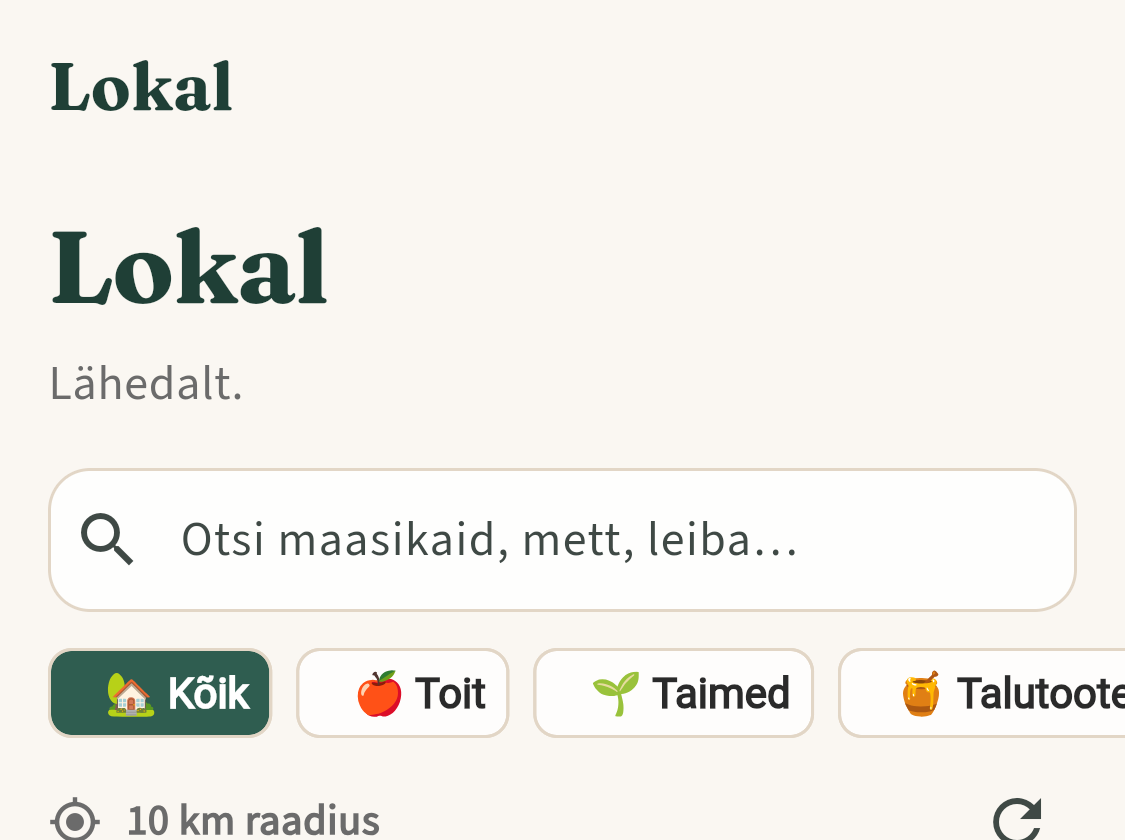
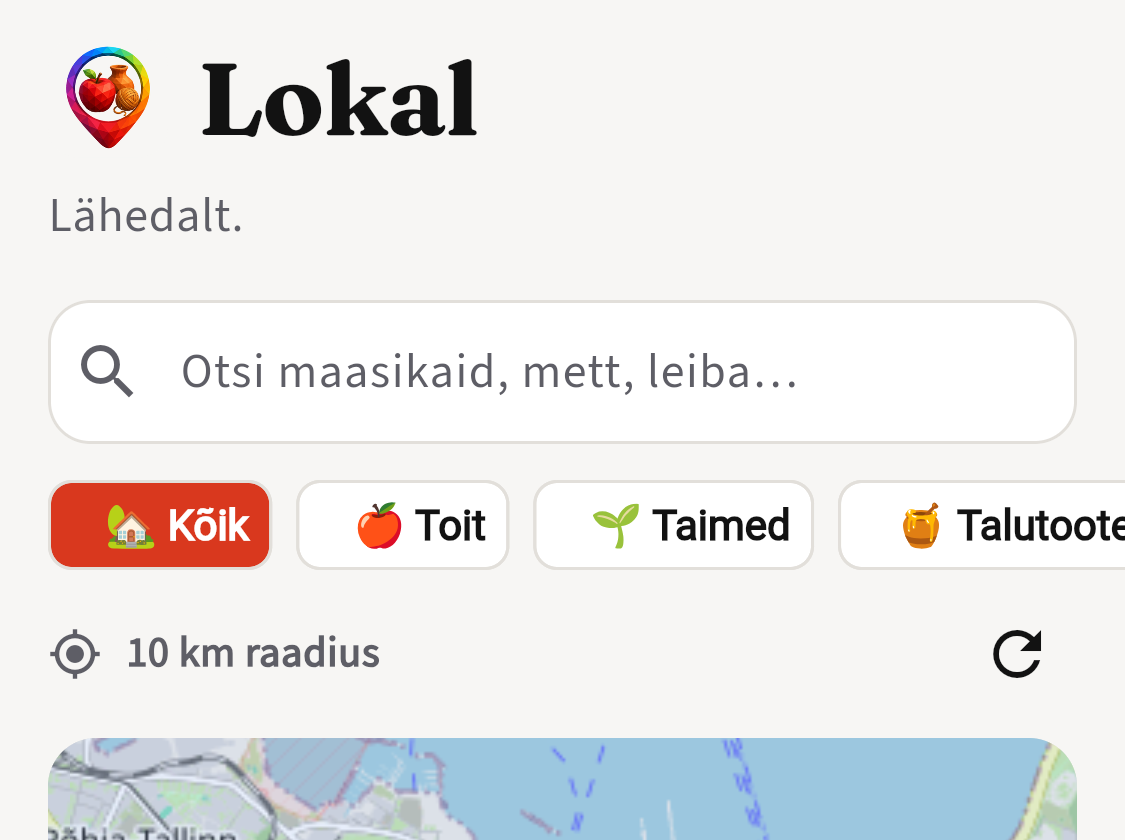
Polish light theme surfaces and fix WebKit E2E semantics
Centralize Material 3 dialog, menu, segmented control, and surface
container colors in LokalColors. Remove duplicate Semantics wrappers on
auth and browse chips that broke Playwright on WebKit. Update walkthrough
to use radio role for Tellimused Ostan/Müün toggle.

diff --git a/mobile/lib/theme/app_theme.dart b/mobile/lib/theme/app_theme.dart
@@ -27,24 +27,41 @@ class LokalColors {
   static const border = Color(0xFFE2DFDA);
   static const danger = Color(0xFFC0362C);
   static const warning = accent;
+  /// Text and icons on [banner] surfaces (snackbar, install prompt).
+  static const onBanner = Color(0xFFFFFFFF);
   static final shadow = const Color(0xFF000000).withValues(alpha: 0.06);
 }
 
+ColorScheme _lokalColorScheme() {
+  return ColorScheme.fromSeed(
+    seedColor: LokalColors.primary,
+    primary: LokalColors.primary,
+    onPrimary: LokalColors.onPrimary,
+    secondary: LokalColors.accent,
+    onSecondary: LokalColors.onPrimary,
+    tertiary: LokalColors.blue,
+    onTertiary: LokalColors.onPrimary,
+    surface: LokalColors.background,
+    onSurface: LokalColors.ink,
+    onSurfaceVariant: LokalColors.muted,
+    error: LokalColors.danger,
+    onError: LokalColors.onPrimary,
+    outline: LokalColors.border,
+    brightness: Brightness.light,
+  ).copyWith(
+    surfaceContainerLowest: LokalColors.background,
+    surfaceContainerLow: LokalColors.surfaceSoft,
+    surfaceContainer: LokalColors.card,
+    surfaceContainerHigh: LokalColors.card,
+    surfaceContainerHighest: LokalColors.surfaceSoft,
+  );
+}
+
 ThemeData buildLokalTheme() {
+  final scheme = _lokalColorScheme();
   final base = ThemeData(
     useMaterial3: true,
-    colorScheme: ColorScheme.fromSeed(
-      seedColor: LokalColors.primary,
-      primary: LokalColors.primary,
-      onPrimary: LokalColors.onPrimary,
-      secondary: LokalColors.accent,
-      onSecondary: LokalColors.onPrimary,
-      tertiary: LokalColors.blue,
-      surface: LokalColors.background,
-      onSurface: LokalColors.ink,
-      error: LokalColors.danger,
-      brightness: Brightness.light,
-    ),
+    colorScheme: scheme,
     scaffoldBackgroundColor: LokalColors.background,
   );
 
@@ -67,8 +84,16 @@ ThemeData buildLokalTheme() {
     chipTheme: base.chipTheme.copyWith(
       selectedColor: LokalColors.primary,
       backgroundColor: LokalColors.chipBg,
+      disabledColor: LokalColors.surfaceSoft,
       side: const BorderSide(color: LokalColors.border),
-      labelStyle: const TextStyle(fontWeight: FontWeight.w600),
+      labelStyle: const TextStyle(
+        fontWeight: FontWeight.w600,
+        color: LokalColors.ink,
+      ),
+      secondaryLabelStyle: const TextStyle(
+        fontWeight: FontWeight.w600,
+        color: LokalColors.onPrimary,
+      ),
       showCheckmark: false,
       padding: const EdgeInsets.symmetric(horizontal: 10, vertical: 8),
     ),
@@ -125,8 +150,75 @@ ThemeData buildLokalTheme() {
     ),
     snackBarTheme: const SnackBarThemeData(
       backgroundColor: LokalColors.banner,
-      contentTextStyle: TextStyle(color: Colors.white),
-      actionTextColor: Color(0xFFFFB98A),
+      contentTextStyle: TextStyle(color: LokalColors.onBanner),
+      actionTextColor: LokalColors.primarySoft,
+    ),
+    dialogTheme: DialogThemeData(
+      backgroundColor: LokalColors.card,
+      surfaceTintColor: Colors.transparent,
+      titleTextStyle: brandTitle(size: 20),
+      contentTextStyle: const TextStyle(color: LokalColors.ink, height: 1.4),
+      shape: RoundedRectangleBorder(
+        borderRadius: BorderRadius.circular(16),
+        side: const BorderSide(color: LokalColors.border),
+      ),
+    ),
+    bottomSheetTheme: const BottomSheetThemeData(
+      backgroundColor: LokalColors.card,
+      surfaceTintColor: Colors.transparent,
+      shape: RoundedRectangleBorder(
+        borderRadius: BorderRadius.vertical(top: Radius.circular(20)),
+      ),
+    ),
+    dropdownMenuTheme: DropdownMenuThemeData(
+      textStyle: const TextStyle(color: LokalColors.ink),
+      menuStyle: MenuStyle(
+        backgroundColor: WidgetStatePropertyAll(LokalColors.card),
+        surfaceTintColor: WidgetStatePropertyAll(Colors.transparent),
+        side: WidgetStatePropertyAll(
+          const BorderSide(color: LokalColors.border),
+        ),
+      ),
+    ),
+    menuTheme: MenuThemeData(
+      style: MenuStyle(
+        backgroundColor: WidgetStatePropertyAll(LokalColors.card),
+        surfaceTintColor: WidgetStatePropertyAll(Colors.transparent),
+        side: WidgetStatePropertyAll(
+          const BorderSide(color: LokalColors.border),
+        ),
+      ),
+    ),
+    popupMenuTheme: PopupMenuThemeData(
+      color: LokalColors.card,
+      surfaceTintColor: Colors.transparent,
+      textStyle: const TextStyle(color: LokalColors.ink),
+      shape: RoundedRectangleBorder(
+        borderRadius: BorderRadius.circular(12),
+        side: const BorderSide(color: LokalColors.border),
+      ),
+    ),
+    segmentedButtonTheme: SegmentedButtonThemeData(
+      style: ButtonStyle(
+        backgroundColor: WidgetStateProperty.resolveWith((states) {
+          if (states.contains(WidgetState.selected)) {
+            return LokalColors.primary;
+          }
+          return LokalColors.chipBg;
+        }),
+        foregroundColor: WidgetStateProperty.resolveWith((states) {
+          if (states.contains(WidgetState.selected)) {
+            return LokalColors.onPrimary;
+          }
+          return LokalColors.ink;
+        }),
+        side: WidgetStateProperty.all(
+          const BorderSide(color: LokalColors.border),
+        ),
+        textStyle: WidgetStateProperty.all(
+          const TextStyle(fontWeight: FontWeight.w600),
+        ),
+      ),
     ),
     bottomNavigationBarTheme: const BottomNavigationBarThemeData(
       backgroundColor: LokalColors.nav,

diff --git a/mobile/lib/screens/auth_screen.dart b/mobile/lib/screens/auth_screen.dart
@@ -79,28 +79,22 @@ class _AuthScreenState extends State<AuthScreen> {
           Wrap(
             spacing: 8,
             children: [
-              Semantics(
-                button: true,
-                label: 'Sisselogimine',
+              ChoiceChip(
+                label: const Text('Sisselogimine'),
                 selected: !_register,
-                child: ChoiceChip(
-                  label: const Text('Sisselogimine'),
-                  selected: !_register,
-                  onSelected: (_) => setState(() => _register = false),
-                  selectedColor: LokalColors.primary,
-                  labelStyle: TextStyle(color: !_register ? LokalColors.onPrimary : LokalColors.ink),
+                onSelected: (_) => setState(() => _register = false),
+                selectedColor: LokalColors.primary,
+                labelStyle: TextStyle(
+                  color: !_register ? LokalColors.onPrimary : LokalColors.ink,
                 ),
               ),
-              Semantics(
-                button: true,
-                label: 'Registreeru',
+              ChoiceChip(
+                label: const Text('Registreeru'),
                 selected: _register,
-                child: ChoiceChip(
-                  label: const Text('Registreeru'),
-                  selected: _register,
-                  onSelected: (_) => setState(() => _register = true),
-                  selectedColor: LokalColors.primary,
-                  labelStyle: TextStyle(color: _register ? LokalColors.onPrimary : LokalColors.ink),
+                onSelected: (_) => setState(() => _register = true),
+                selectedColor: LokalColors.primary,
+                labelStyle: TextStyle(
+                  color: _register ? LokalColors.onPrimary : LokalColors.ink,
                 ),
               ),
             ],
@@ -169,29 +163,17 @@ class _AuthScreenState extends State<AuthScreen> {
             spacing: 8,
             runSpacing: 8,
             children: [
-              Semantics(
-                button: true,
-                label: 'Ostja · Anna',
-                child: ActionChip(
-                  label: const Text('Ostja · Anna'),
-                  onPressed: () => _fillDemo('anna@lokal.app'),
-                ),
+              ActionChip(
+                label: const Text('Ostja · Anna'),
+                onPressed: () => _fillDemo('anna@lokal.app'),
               ),
-              Semantics(
-                button: true,
-                label: 'Tootja · Mari',
-                child: ActionChip(
-                  label: const Text('Tootja · Mari'),
-                  onPressed: () => _fillDemo('mari@lokal.app'),
-                ),
+              ActionChip(
+                label: const Text('Tootja · Mari'),
+                onPressed: () => _fillDemo('mari@lokal.app'),
               ),
-              Semantics(
-                button: true,
-                label: 'Tootja · Jüri',
-                child: ActionChip(
-                  label: const Text('Tootja · Jüri'),
-                  onPressed: () => _fillDemo('juri@lokal.app'),
-                ),
+              ActionChip(
+                label: const Text('Tootja · Jüri'),
+                onPressed: () => _fillDemo('juri@lokal.app'),
               ),
             ],
           ),

diff --git a/mobile/lib/screens/browse_screen.dart b/mobile/lib/screens/browse_screen.dart
@@ -175,30 +175,25 @@ class _BrowseScreenState extends State<BrowseScreen> {
                     for (final c in categoryOptions) ...[
                       Padding(
                         padding: const EdgeInsets.only(right: 8),
-                        child: Semantics(
-                          button: true,
-                          label: c.label,
+                        child: ChoiceChip(
+                          materialTapTargetSize:
+                              MaterialTapTargetSize.shrinkWrap,
+                          label: Text(
+                            '${c.emoji} ${c.label}',
+                            softWrap: false,
+                            overflow: TextOverflow.visible,
+                          ),
                           selected: _category == c.key,
-                          child: ChoiceChip(
-                            materialTapTargetSize:
-                                MaterialTapTargetSize.shrinkWrap,
-                            label: Text(
-                              '${c.emoji} ${c.label}',
-                              softWrap: false,
-                              overflow: TextOverflow.visible,
-                            ),
-                            selected: _category == c.key,
-                            onSelected: (_) {
-                              setState(() => _category = c.key);
-                              _load();
-                            },
-                            selectedColor: LokalColors.primary,
-                            labelStyle: TextStyle(
-                              color: _category == c.key
-                                  ? LokalColors.onPrimary
-                                  : LokalColors.ink,
-                              fontWeight: FontWeight.w600,
-                            ),
+                          onSelected: (_) {
+                            setState(() => _category = c.key);
+                            _load();
+                          },
+                          selectedColor: LokalColors.primary,
+                          labelStyle: TextStyle(
+                            color: _category == c.key
+                                ? LokalColors.onPrimary
+                                : LokalColors.ink,
+                            fontWeight: FontWeight.w600,
                           ),
                         ),
                       ),

diff --git a/mobile/lib/widgets/add_to_home_screen_banner.dart b/mobile/lib/widgets/add_to_home_screen_banner.dart
@@ -30,7 +30,7 @@ class AddToHomeScreenBanner extends StatelessWidget {
           child: Row(
             crossAxisAlignment: CrossAxisAlignment.start,
             children: [
-              const Icon(Icons.install_mobile, color: Colors.white, size: 28),
+              const Icon(Icons.install_mobile, color: LokalColors.onBanner, size: 28),
               const SizedBox(width: 12),
               Expanded(
                 child: Column(
@@ -39,7 +39,7 @@ class AddToHomeScreenBanner extends StatelessWidget {
                     const Text(
                       'Lisa Lokal avaekraanile',
                       style: TextStyle(
-                        color: Colors.white,
+                        color: LokalColors.onBanner,
                         fontWeight: FontWeight.w700,
                         fontSize: 16,
                       ),
@@ -50,7 +50,7 @@ class AddToHomeScreenBanner extends StatelessWidget {
                           ? 'Puuduta Safari menüüs Jagamise ikooni ja vali „Lisa avaekraanile“.'
                           : 'Kiire ligipääs kaardile ja tellimustele otse avaekraanilt.',
                       style: TextStyle(
-                        color: Colors.white.withValues(alpha: 0.9),
+                        color: LokalColors.onBanner.withValues(alpha: 0.9),
                         fontSize: 13,
                         height: 1.35,
                       ),
@@ -60,7 +60,7 @@ class AddToHomeScreenBanner extends StatelessWidget {
                       FilledButton(
                         onPressed: () => prompt.install(),
                         style: FilledButton.styleFrom(
-                          backgroundColor: Colors.white,
+                          backgroundColor: LokalColors.onBanner,
                           foregroundColor: LokalColors.banner,
                           padding: const EdgeInsets.symmetric(horizontal: 16, vertical: 8),
                         ),
@@ -73,7 +73,7 @@ class AddToHomeScreenBanner extends StatelessWidget {
               IconButton(
                 onPressed: () => prompt.dismiss(),
                 tooltip: 'Peida meeldetuletus',
-                icon: const Icon(Icons.close, color: Colors.white),
+                icon: const Icon(Icons.close, color: LokalColors.onBanner),
               ),
             ],
           ),

diff --git a/e2e/walkthrough.spec.ts b/e2e/walkthrough.spec.ts
@@ -352,7 +352,7 @@ test.describe('Lokal marketplace walkthrough (iPhone 14 / WebKit)', () => {
     await logout(page);
     await loginAccount(page, request, 'mari@lokal.app');
     await tapBottomNav(page, 'Tellimused');
-    await page.getByRole('button', { name: 'Müün', exact: true }).click();
+    await page.getByRole('radio', { name: 'Müün', exact: true }).click();
     await screenshot(page, '13-orders-seller-inbox.png');
     const acceptButtons = page.getByRole('button', { name: 'Võta vastu' });
     const declineButtons = page.getByRole('button', { name: 'Keeldu' });

diff --git a/artifacts/README.md b/artifacts/README.md
@@ -1,0 +1,14 @@
+# Visual audit artifacts (WebKit / iPhone viewport)
+
+Playwright screenshots from the light-theme polish pass.
+
+## Category filter chips (375px / 390px)
+
+- **Before** (teal primary leftover from #27): `screenshots/browse-category-chips-*-before.png`
+- **After** (icon red `#D9381E`, black wordmark): `screenshots/browse-category-chips-*-after.png`
+
+Captured via `e2e/run-category-chips-screenshots.sh` (`playwright.category-chips.config.ts`).
+
+## Full marketplace walkthrough
+
+Release build with `ENABLE_SEMANTICS=true`, iPhone 14 WebKit — `walkthrough-after/` (16 screens, same flow as `e2e/walkthrough.spec.ts`).
